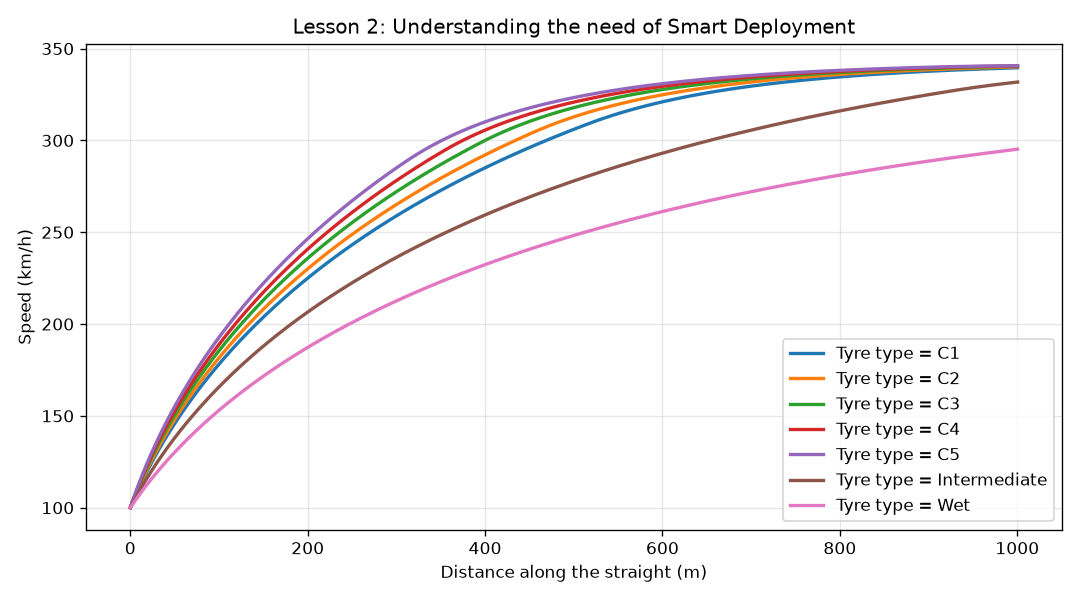
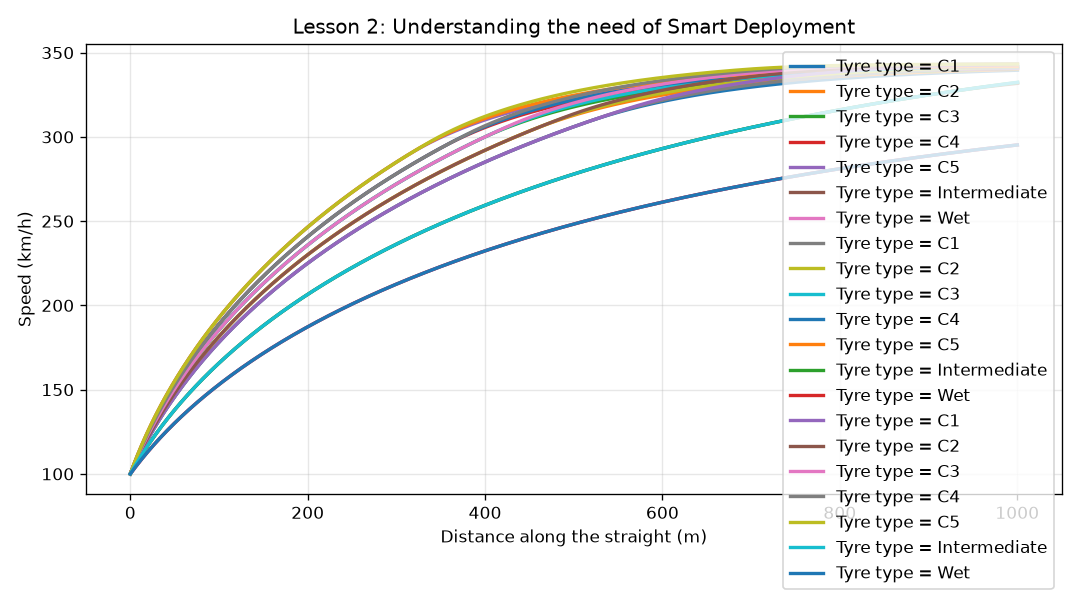
Lesson 2: Done

diff --git a/lesson2_smart_deployment.py b/lesson2_smart_deployment.py
@@ -15,6 +15,11 @@ from params import *
 def traction_limit_g(mu):
     return (REAR_WEIGHT_FRACTION * mu) / (1 - mu * COG_HEIGHT / WHEELBASE)
 
+def ice_power(rules):
+    """Engine power (W) for a year's rules: fuel energy flow x engine efficiency."""
+    fuel_power = rules["fuel_energy_flow_MJh"] * 1_000_000 / 3600   # MJ/h -> W
+    return fuel_power * ICE_THERMAL_EFFICIENCY
+
 def mguk_dc_limit(speed_kph, rules):
     if speed_kph < 340:
         value = max(0, min(rules["ers_k_dc_max_kW"]*1_000, (1800-5*speed_kph)*1_000))
@@ -46,7 +51,7 @@ def resistive_forces(speed):
 def simulate_straight(BAT_CAP,grip, rules):
     """Simulate the car down the straight at a constant power.
 
-    Returns arrays of distance (m) and speed (km/h).
+    Returns arrays of distance (m), speed (km/h), energy (MJ), and time (s)
     """
     distance = 0.0
     time = 0.0
@@ -58,9 +63,10 @@ def simulate_straight(BAT_CAP,grip, rules):
 
         if energy > 0:
             p_dc_allowed = mguk_dc_limit(speed * 3.6, rules)       # from battery (DC)
-            p_mech_allowed = ERS_EFFICIENCY * p_dc_allowed          # what reaches the car
+            p_mech_allowed = ERS_EFFICIENCY * p_dc_allowed         # what reaches the car
+            p_ice = ice_power(rules)
             max_tyre_power = grip * MASS * G * speed                # traction force x speed
-            useful_room = max_tyre_power - P_ICE                    # minus what the engine already gives
+            useful_room = max_tyre_power - p_ice                   # minus what the engine already gives
             p_mech = max(0, min(p_mech_allowed, useful_room))
             p_dc = p_mech / ERS_EFFICIENCY
 
@@ -68,10 +74,10 @@ def simulate_straight(BAT_CAP,grip, rules):
                 p_dc = energy / DT
                 p_mech = p_dc * ERS_EFFICIENCY
 
-            accel = (drive_force(speed, P_ICE + p_mech, grip) - resistive_forces(speed)) / MASS
+            accel = (drive_force(speed,p_ice+p_mech, grip) - resistive_forces(speed)) / MASS
             energy = max(energy - p_dc * DT, 0)
         else:
-            accel = (drive_force(speed,P_ICE,grip) - resistive_forces(speed)) / MASS
+            accel = (drive_force(speed,p_ice,grip) - resistive_forces(speed)) / MASS
 
         # Euler integration: nudge speed and position forward one tiny step
         time = time + DT
@@ -88,29 +94,31 @@ def simulate_straight(BAT_CAP,grip, rules):
 
 
 # ---------------------------------------------------------------------------
-# 3. RUN TWO SCENARIOS AND COMPARE
+# 3. RUN DIFFERENT YEARS RULES AND COMPARE
 # ---------------------------------------------------------------------------
 
 plt.figure(figsize=(9, 5))
-for name,mu in TYRE_MU.items():
-    grip = traction_limit_g(mu)
-    dist_MJ, speed_MJ, energy_MJ, time_MJ = simulate_straight(ES_SOC_WINDOW,grip,R)
-    mj = ES_SOC_WINDOW / 1_000_000
+for year, rules in RULES.items():
+    print(year,":")
+    for name,mu in TYRE_MU.items():
+        grip = traction_limit_g(mu)
+        dist_MJ, speed_MJ, energy_MJ, time_MJ = simulate_straight(ES_SOC_WINDOW,grip,RULES[year])
+        mj = ES_SOC_WINDOW / 1_000_000
 
-    found = None
-    for i in range(len(energy_MJ)):
-        if energy_MJ[i] == 0:
-            found = i
-            break
+        found = None
+        for i in range(len(energy_MJ)):
+            if energy_MJ[i] == 0:
+                found = i
+                break
 
-    if found is None:
-        empty = "battery never emptied"
-    else:
-        empty = f"battery empty at {time_MJ[found]:.2f} s ({dist_MJ[found]:.0f} m)"
+        if found is None:
+            empty = "battery never emptied"
+        else:
+            empty = f"battery empty at {time_MJ[found]:.2f} s ({dist_MJ[found]:.0f} m)"
 
-    print(f"Tyre = {name}: {speed_MJ[-1]:.0f} km/h, "
-          f"straight took {time_MJ[-1]:.2f} s, {empty}, Energy Used :{(ES_SOC_WINDOW-energy_MJ[-1])/1_000_000:.2f} MJ")
-    plt.plot(dist_MJ, speed_MJ, label=f"Tyre type = {name}", linewidth=2)
+        print(f"Tyre = {name}: {speed_MJ[-1]:.0f} km/h, "
+              f"straight took {time_MJ[-1]:.2f} s, {empty}, Energy Used :{(ES_SOC_WINDOW-energy_MJ[-1])/1_000_000:.2f} MJ")
+        plt.plot(dist_MJ, speed_MJ, label=f"Tyre type = {name}", linewidth=2)
 plt.xlabel("Distance along the straight (m)")
 plt.ylabel("Speed (km/h)")
 plt.title("Lesson 2: Understanding the need of Smart Deployment")

diff --git a/README.md b/README.md
@@ -7,7 +7,7 @@ built to study energy deployment and "clipping" under the new 2026 regulations.
 Simulates an F1 car accelerating down a 1 km straight with different battery sizes.
 When the battery runs out, the car loses ~350 kW of electric power and clips.
 
-![Speed trace](lesson1_speed_trace.png)
+![Speed trace](/Users/dhyey/Virtual-Power-Unit/lesson1_speed_trace.png)
 
 ## Run it
 pip install -r requirements.txt
